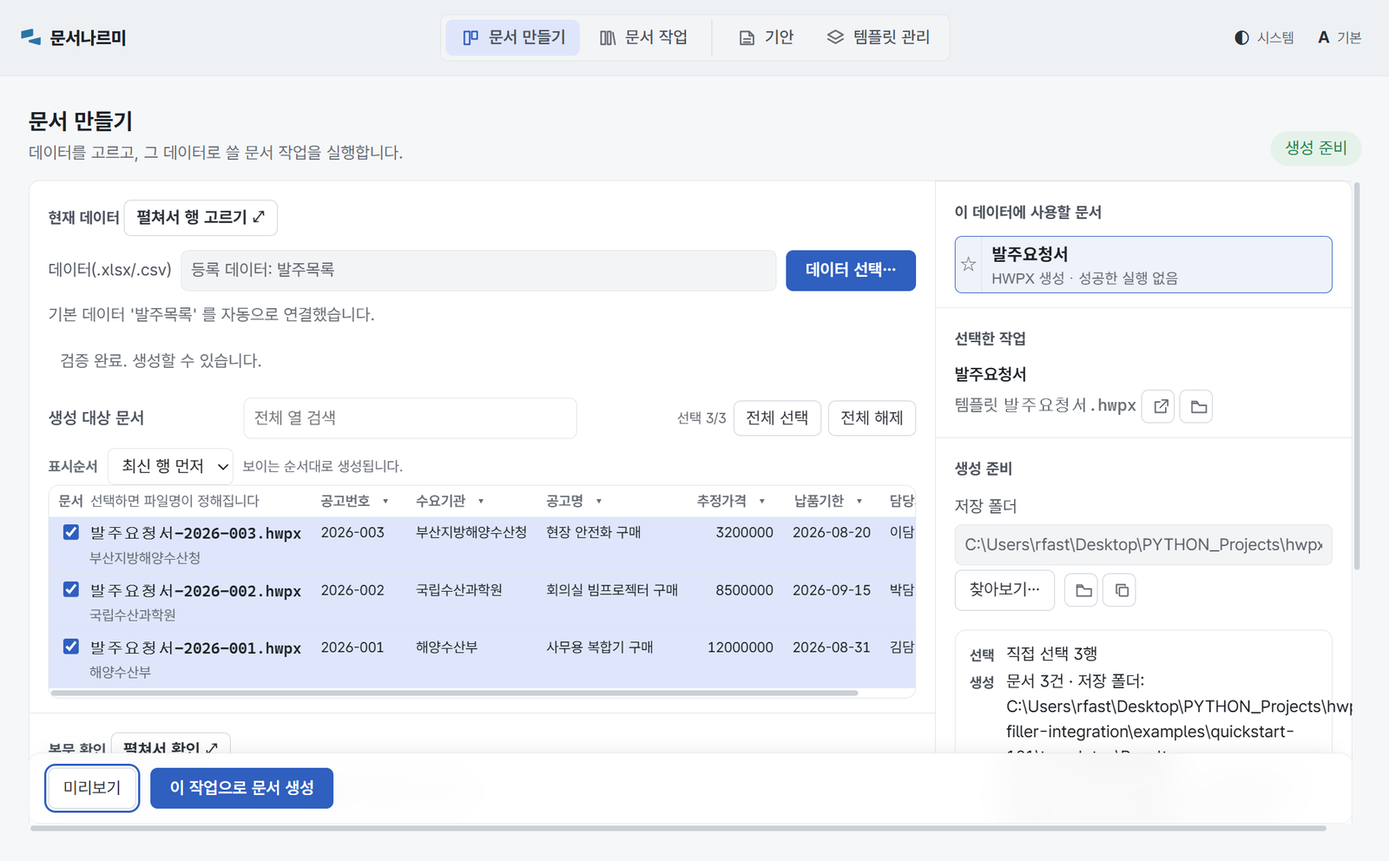
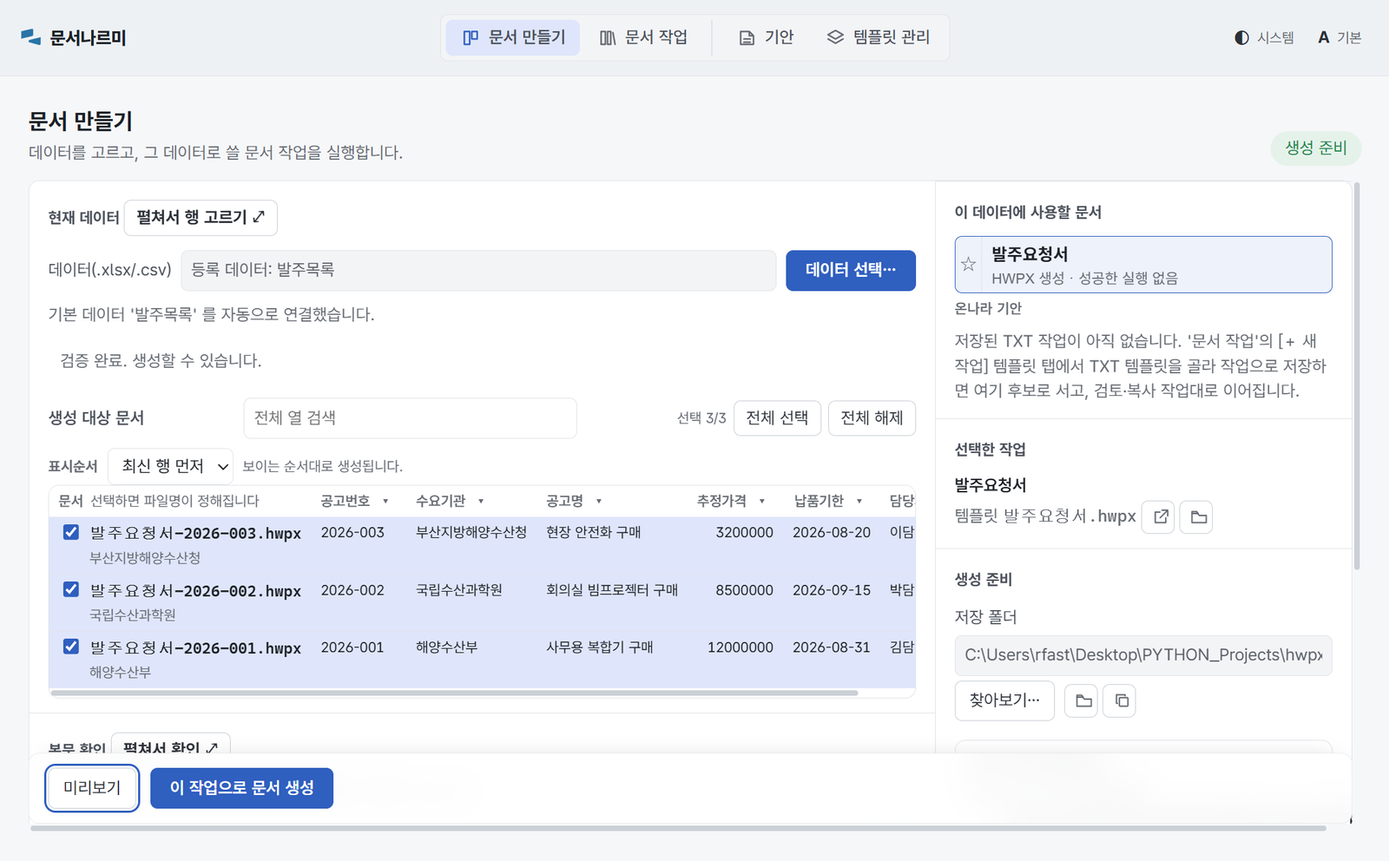
docs: F6 PR-B 101 트랙 B 재배선 — 작업대 경로 14컷 + README(고지 ③)
트랙 B = TXT 작업 저장(편집기 TXT 밴드) → 검토·복사 작업대. 하니스 S8~S11 전면
교체(12-workbench-review·13-workbench-copied·14-workbench-empty-value, 14컷 유지),
README 트랙 B·탭 표·자산 표·문제 해결 재작성 + 폐지 재진술(대체 경로 = 저장 TXT
작업 경유). 오류 연습의 교훈이 새 표면으로 옮겨졌다: 휘발 세션의 빨간 {{토큰}} 대신
저장 게이트의 '비움으로 확정' + 작업대 (빈 값) 표시(자산 본문 동반 갱신).

레일 「기안」 탭이 아직 보이는 컷은 사망 커밋 뒤 재촬영으로 갱신한다(같은 PR).

Claude-Session: https://claude.ai/code/session_01HmFACgbx34L18qfC9zJoxt

Changed region(s): [[0.6875, 0.3438, 0.9688, 0.7188], [0.6875, 0.75, 0.9688, 0.875]]

diff --git a/scripts/capture_101_screenshots.py b/scripts/capture_101_screenshots.py
@@ -429,82 +429,170 @@ def _drive(d: Driver) -> None:
     d.scroll_to("#jobResult")
     d.shot("generated")
 
-    # ---- S8 기안: 템플릿 + 데이터 채움 -------------------------------------
-    # 「기안」은 상단 탭의 구분선 오른쪽 **과도기 임시 항목**이다(F6 에서 「문서 만들기」로
-    # 합쳐지며 사라진다) — 캡처는 지금 실물을 그대로 찍는다.
-    d.js("window.Nav.go('draft'); true;")
-    d.wait("document.querySelector('#scr-draft.on') !== null", "기안 화면")
-    d.wait("document.querySelectorAll('#draftTplSel option').length >= 2", "템플릿 콤보 채움")
-    assert d.js("window.__cap.setValue('#draftTplSel', '발주요청_기안')")
+    # ---- S8 트랙 B: TXT 작업 만들기(편집기 「템플릿」 탭 TXT 밴드) ----------
+    # 휘발 「기안」 화면은 F6 PR-B 로 사라졌다 — TXT 도 같은 편집기에서 **저장 작업**으로
+    # 만들고(지도 §10.15.15 점검표 1행), 채워 복사는 검토·복사 작업대가 잇는다.
+    d.js("window.Nav.go('library'); true;")
+    d.wait("document.querySelector('#scr-library.on') !== null", "문서 작업 화면(트랙 B)")
+    d.click_sel("#libraryNewWork")
     d.wait(
-        "(document.getElementById('draftCardRender')||{textContent:''}).textContent"
-        ".includes('발주 요청')",
-        "기안 원문 렌더",
+        "document.querySelector('#scr-editor.on') !== null && !!document.querySelector("
+        "'#scr-editor button[data-act=\"use-library\"][data-path*=\"발주요청_기안\"]')",
+        "편집기 TXT 밴드",
     )
-    # 데이터 선택은 단일 출구(재작성 F1) — 버튼이 네이티브 피커를 바로 열지 않고 **데이터
-    # 선택 다이얼로그**를 연다. 「다른 데이터」의 [파일 찾아보기…]가 네이티브로 내려간다.
-    d.click_sel("#draftBtnPickData")
+    d.click_sel('#scr-editor button[data-act="use-library"][data-path*="발주요청_기안"]')
+    # TXT 세션 = 탭 2개(템플릿·필드 연결) — 파일 이름 탭이 없다(§3.2, 파일을 만들지 않는 작업).
     d.wait(
-        "!document.getElementById('dataPickerModal').classList.contains('hidden')",
-        "데이터 선택 다이얼로그",
+        "document.querySelectorAll('#editor-steps .wstep-tab').length === 2"
+        " && document.querySelector('#scr-editor').textContent.includes('공고번호')",
+        "TXT 스키마·탭 2개",
     )
+    d.click("#scr-editor", "다음 ▶")
+    d.wait("!!window.__cap.btn('#scr-editor','파일 선택…')", "TXT 필드 연결 데이터 관문")
     _DIALOG_ANSWERS.append(CSV)
-    d.click_sel("#dataPickerBrowse")
-    # 「작업」과 같은 데이터-우선 계약(§18.2) — 새 데이터는 선택 0건에서 시작하므로 채울
-    # 대상을 먼저 고른다. 그래야 카드가 첫 행 값으로 채워진다.
-    d.wait("!document.getElementById('draftSelAll').disabled", "기안 대상 행 표", timeout=25.0)
-    d.click_sel("#draftSelAll")
+    d.click("#scr-editor", "파일 선택…")
     d.wait(
-        "(document.getElementById('draftCardRender')||{textContent:''}).textContent"
-        ".includes('해양수산부')",
-        "기안 채움 미리보기",
+        "!!window.__cap.btn('#scr-editor','모두 확정')"
+        " && document.querySelector('#scr-editor').textContent.includes('해양수산부')",
+        "TXT 매핑표 미리보기",
+    )
+    d.click("#scr-editor", "모두 확정")
+    d.wait(
+        "document.querySelector('#scr-editor').textContent.includes('확정 6/6')",
+        "TXT 전 행 확정",
+    )
+    assert d.js("window.__cap.setValue('#editorName', '발주요청 기안')")
+    d.click("#scr-editor", "작업 저장")
+    # 트랙 A 가 같은 CSV 를 이미 「발주목록」으로 등록했다 — 같은 이름 재등록 확인이 선다
+    # (조용한 참조 덮어쓰기 금지). 같은 파일·같은 뜻이라 실습도 [덮어쓰기]로 지난다.
+    d.wait("!!window.__cap.btn(null,'덮어쓰기')", "등록 데이터 동명 확인")
+    d.js("window.__cap.clickBtn(null,'덮어쓰기'); true;")
+    d.wait(
+        "document.querySelector('#scr-editor').textContent.includes('저장했습니다')",
+        "TXT 작업 저장 착지",
+        timeout=30.0,
+    )
+    d.click_sel("#editorBack")
+    d.wait("document.querySelector('#scr-job.on') !== null", "편집기 이탈(트랙 B)")
+
+    # ---- S9 작업대 진입·검토 -----------------------------------------------
+    # 실행 버튼이 매체 분기(판정 D)로 「검토·복사 시작 · 3건」으로 서고 작업대가 열린다.
+    d.js("window.Nav.go('library'); true;")
+    d.wait(
+        "!!document.querySelector('#libraryList [data-work=\"발주요청 기안\"]')",
+        "TXT 작업 라이브러리 반영",
+    )
+    d.click_sel('#libraryList [data-work="발주요청 기안"]')
+    d.wait("!!document.querySelector('#libraryDetail [data-use=\"발주요청 기안\"]')", "TXT 상세")
+    d.click_sel('#libraryDetail [data-use="발주요청 기안"]')
+    d.wait(
+        "document.querySelector('#scr-job').textContent.includes('자동으로 연결')",
+        "TXT 기본 데이터 자동 연결",
         timeout=25.0,
     )
-    d.scroll_to("#draftCard")
-    d.shot("draft-filled")
-
-    # ---- S9 복사(클립보드) -------------------------------------------------
-    d.click_sel("#draftCardCopy")
+    d.click_sel("#jobSelAll")
     d.wait(
-        "(document.getElementById('draftNote')||{textContent:''}).textContent"
-        ".includes('복사')",
-        "복사 완료 노트",
+        "document.getElementById('jobGenBtn').textContent.includes('검토·복사 시작')"
+        " && !document.getElementById('jobGenBtn').disabled",
+        "검토·복사 진입 버튼",
     )
-    d.scroll_to("#draftNote")
-    d.shot("draft-copied")
-
-    # ---- S10 오류 연습: 미치환 토큰 경고 -----------------------------------
-    assert d.js("window.__cap.setValue('#draftTplSel', '오류연습_미치환')")
-    # 무장 세션 전환 가드 — in-page 확인 모달이 뜨면 실 클릭으로 지난다.
+    d.click_sel("#jobGenBtn")
+    # 카드 술어는 표시순서 무관하게 잡는다 — 고정 사본은 「최신 행 먼저」 기본 순서라 첫
+    # 카드가 CSV 1행이 아니다. 템플릿 원문([발주 요청])과 채운 값(구매)이 함께 서야 채움이다.
     d.wait(
-        "(document.getElementById('draftCardRender')||{textContent:''}).textContent"
-        ".includes('담당연락처')"
-        " || !!window.__cap.btn(null,'바꾸기')",
-        "전환 가드 or 전환 완료",
+        "document.querySelector('#scr-workbench.on') !== null"
+        " && (document.getElementById('wbCard')||{textContent:''}).textContent"
+        ".includes('[발주 요청]')"
+        " && (document.getElementById('wbCard')||{textContent:''}).textContent.includes('구매')",
+        "작업대 카드 채움",
     )
-    d.js("window.__cap.clickBtn(null,'바꾸기'); true;")
-    # 전환은 데이터를 유지한다 — 해제된 경우에만 다시 겨눈다(답변도 그때만 큐잉).
-    time.sleep(0.8)
-    if not d.js(
-        "((document.getElementById('draftDataLabel')||{value:'',textContent:''}).value||''"
-        " + (document.getElementById('draftDataLabel')||{textContent:''}).textContent)"
-        ".includes('발주목록')"
-    ):
-        d.click_sel("#draftBtnPickData")
-        d.wait(
-            "!document.getElementById('dataPickerModal').classList.contains('hidden')",
-            "데이터 선택 다이얼로그(재겨눔)",
-        )
-        _DIALOG_ANSWERS.append(CSV)
-        d.click_sel("#dataPickerBrowse")
+    d.shot("workbench-review")
+
+    # ---- S10 복사(클립보드) ------------------------------------------------
+    d.click_sel("#wbCopy")
     d.wait(
-        "(document.getElementById('draftCardRender')||{textContent:''}).textContent"
-        ".includes('{{담당연락처}}')",
-        "미치환 토큰 표시",
+        "(document.getElementById('wbCopied')||{textContent:''}).textContent"
+        ".trim().indexOf('1 /') === 0",
+        "복사 카운터",
+    )
+    d.shot("workbench-copied")
+    # 미복사 잔량이 있는 이탈은 가드가 확인을 요구한다(T3 승계) — 실 클릭으로 지난다.
+    d.click_sel("#wbBack")
+    d.wait(
+        "document.querySelector('#scr-job.on') !== null || !!window.__cap.btn(null,'나가기')",
+        "작업대 이탈 가드",
+    )
+    d.js("window.__cap.clickBtn(null,'나가기'); true;")
+    d.wait("document.querySelector('#scr-job.on') !== null", "작업대 이탈")
+
+    # ---- S11 오류 연습: 데이터에 없는 항목 = 비움 확정 → 〈빈 값〉 ----------
+    # 구 「기안」의 빨간 {{토큰}} 은 휘발 세션(미결속 허용)의 표면이었다. 저장 작업은 전 행
+    # 확정이 저장 조건이라, 없는 항목은 편집기가 **비움 확정**을 요구하고(조용히 지나가지
+    # 않는다) 작업대 카드에 〈빈 값〉으로 남는다 — 같은 경보의 새 거처를 그대로 찍는다.
+    d.js("window.Nav.go('library'); true;")
+    d.wait("document.querySelector('#scr-library.on') !== null", "문서 작업(오류 연습)")
+    d.click_sel("#libraryNewWork")
+    d.wait(
+        "document.querySelector('#scr-editor.on') !== null && !!document.querySelector("
+        "'#scr-editor button[data-act=\"use-library\"][data-path*=\"오류연습_미치환\"]')",
+        "편집기 TXT 밴드(오류 연습)",
+    )
+    d.click_sel('#scr-editor button[data-act="use-library"][data-path*="오류연습_미치환"]')
+    d.wait(
+        "document.querySelector('#scr-editor').textContent.includes('담당연락처')",
+        "오류 연습 스키마",
+    )
+    d.click("#scr-editor", "다음 ▶")
+    d.wait("!!window.__cap.btn('#scr-editor','파일 선택…')", "데이터 관문(오류 연습)")
+    _DIALOG_ANSWERS.append(CSV)
+    d.click("#scr-editor", "파일 선택…")
+    d.wait("!!window.__cap.btn('#scr-editor','모두 확정')", "매핑표(오류 연습)")
+    d.click("#scr-editor", "모두 확정")
+    # 데이터에 없는 「담당연락처」 — 채우지 않고 비움으로 확정할지 **묻는다**(이름게이트).
+    d.wait("!!window.__cap.btn(null,'비움으로 확정')", "비움 확정 이름게이트")
+    d.js("window.__cap.clickBtn(null,'비움으로 확정'); true;")
+    d.wait(
+        "document.querySelector('#scr-editor').textContent.includes('확정 3/3')",
+        "오류 연습 전 행 확정",
+    )
+    assert d.js("window.__cap.setValue('#editorName', '오류연습')")
+    d.click("#scr-editor", "작업 저장")
+    d.wait("!!window.__cap.btn(null,'덮어쓰기')", "등록 데이터 동명 확인(오류 연습)")
+    d.js("window.__cap.clickBtn(null,'덮어쓰기'); true;")
+    d.wait(
+        "document.querySelector('#scr-editor').textContent.includes('저장했습니다')",
+        "오류 연습 저장 착지",
+        timeout=30.0,
+    )
+    d.click_sel("#editorBack")
+    d.wait("document.querySelector('#scr-job.on') !== null", "편집기 이탈(오류 연습)")
+    d.js("window.Nav.go('library'); true;")
+    d.wait(
+        "!!document.querySelector('#libraryList [data-work=\"오류연습\"]')",
+        "오류 연습 작업 반영",
+    )
+    d.click_sel('#libraryList [data-work="오류연습"]')
+    d.wait("!!document.querySelector('#libraryDetail [data-use=\"오류연습\"]')", "오류 연습 상세")
+    d.click_sel('#libraryDetail [data-use="오류연습"]')
+    # 이번엔 「자동으로 연결」 고지가 없다 — 같은 데이터(발주목록)가 앞 단계에서 이미
+    # 마운트돼 있어 prefer_work 가 데이터 재연결 없이 작업만 바꾼다. 전환 사실로 기다린다.
+    d.wait(
+        "document.querySelector('#scr-job').textContent.includes('오류연습')"
+        " && !document.getElementById('jobSelAll').disabled",
+        "오류 연습 작업 전환",
         timeout=25.0,
     )
-    d.scroll_to("#draftCard")
-    d.shot("missing-token")
+    d.click_sel("#jobSelAll")
+    d.wait("!document.getElementById('jobGenBtn').disabled", "검토·복사 진입(오류 연습)")
+    d.click_sel("#jobGenBtn")
+    d.wait(
+        "document.querySelector('#scr-workbench.on') !== null"
+        " && (document.getElementById('wbCard')||{textContent:''}).textContent.includes('빈 값')"
+        " && (document.getElementById('wbMapPanel')||{textContent:''}).textContent"
+        ".includes('담당연락처')",
+        "작업대 〈빈 값〉 표면",
+    )
+    d.shot("workbench-empty-value")
 
 
 # ------------------------------------------------------------------ 부팅 배선

diff --git a/examples/quickstart-101/README.md b/examples/quickstart-101/README.md
@@ -6,7 +6,8 @@
 **실습 결과**: ① 완성 HWPX 문서 3건 ② 클립보드에 채워진 기안 텍스트 1건.
 
 한글 CSV 한 벌로 두 가지를 만든다 — **HWPX 완성 문서**(작업으로 저장 → 생성)와
-**즉시 기안 텍스트**(채워서 바로 복사). 이 폴더 하나로 처음부터 끝까지 화면에서 실습된다.
+**기안 텍스트**(작업으로 저장 → 검토·복사). 두 트랙 모두 같은 「작업」 리듬이고,
+이 폴더 하나로 처음부터 끝까지 화면에서 실습된다.
 
 > 이 튜토리얼은 **CLI 를 쓰지 않는다.** 실무자는 앱으로 일한다는 전제다.
 > 자동화용 명령줄이 필요하면 [루트 README](../../README.md) 의 CLI 절을 보라.
@@ -25,9 +26,9 @@ quickstart-101/
 ├─ templates/                누름틀 템플릿(.hwpx) — 앱의 템플릿 라이브러리에 자동으로 뜬다
 │   ├─ 발주요청서.hwpx        6필드 템플릿
 │   └─ 구매요청서.hwpx        4필드 부분집합(102 용)
-├─ text_templates/           평문 {{필드}} 초안 — "기안" 화면에 자동으로 뜬다
+├─ text_templates/           평문 {{필드}} 초안 — 편집기 「＋ 새 작업」의 TXT 구획에 뜬다
 │   ├─ 발주요청_기안.txt      정상 초안(6필드 전부 CSV 에 있음)
-│   └─ 오류연습_미치환.txt    ⚠ 일부러 없는 토큰을 넣은 오류 연습용(정상 경로와 분리)
+│   └─ 오류연습_미치환.txt    ⚠ 일부러 없는 토큰을 넣은 오류 연습용(비움 확정·빈 값 표면)
 ├─ data/                     채울 값(한글 헤더 = 필드 이름 → 직접 매칭)
 │   ├─ 발주목록.csv           3건. utf-8-sig — 트랙 A·B 가 같은 파일을 쓴다
 │   └─ 발주목록_2.csv         같은 헤더·다른 2건(102 용)
@@ -46,8 +47,8 @@ quickstart-101/
 | `발주요청서.hwpx` + `발주목록.csv` | 첫 HWPX 생성 | 필드 확인 → 자동 제안 확정 → 작업 저장 → 생성 | 완성 HWPX 3건 |
 | `구매요청서.hwpx` + 같은 CSV | 템플릿 재사용(102) | 한 데이터 → 여러 템플릿, 여분 열 무시 | 다른 서식 HWPX 3건 |
 | `발주목록_2.csv` | 데이터 교체(102) | 여러 데이터 → 한 템플릿, 같은 폴더 누적 | 추가 HWPX 2건 |
-| `발주요청_기안.txt` + 같은 CSV | 즉시 기안 | 레코드 이동·미리보기·복사 | 채워진 평문 초안 |
-| `오류연습_미치환.txt` | 경고 표면 학습 | 데이터에 없는 `{{담당연락처}}` 토큰의 미치환 경고 | 빨간 토큰·`항목 없음` 신호 |
+| `발주요청_기안.txt` + 같은 CSV | 기안 텍스트 | TXT 작업 저장 → 작업대 검토·복사 | 채워진 평문 초안 |
+| `오류연습_미치환.txt` | 경고 표면 학습 | 데이터에 없는 `{{담당연락처}}` 항목의 비움 확정·빈 값 표시 | 비움 확정 게이트·`(빈 값)` 표시 |
 
 필드 ↔ 데이터 열 대응: 템플릿 필드명 = CSV 한글 헤더 **정확 일치**가 101 의 핵심이다
 (그래서 매핑이 자동 제안된다). `발주요청서` 는 6열 전부(공고번호·수요기관·공고명·
@@ -86,15 +87,14 @@ macOS/Linux: `HWPXFILLER_HOME="$PWD/examples/quickstart-101" python -m hwpxfille
 
 | 탭 | 하는 일 |
 |---|---|
-| **문서 만들기** | 데이터를 고르고, 그 데이터로 쓸 문서 작업을 실행하는 곳(트랙 A) |
+| **문서 만들기** | 데이터를 고르고, 그 데이터로 쓸 문서 작업을 실행하는 곳(HWPX 생성·TXT 검토·복사) |
 | **문서 작업** | 저장된 작업을 찾고 상태를 확인·정리하는 곳. 「＋ 새 작업」도 여기 |
 | *구분선 오른쪽* | |
-| **기안** | 평문 초안(TXT)을 채워 복사하는 곳(트랙 B) |
 | **템플릿 관리** | HWPX·TXT 라이브러리 — 상태 점검·누름틀 변환·그룹 정리 |
 
-구분선 오른쪽 둘은 **정리 중인 자리**다 — 곧 앞의 두 탭 안으로 합쳐지며 사라진다(탭에
-마우스를 올리면 그렇게 적혀 있다). 101 은 **문서 만들기**·**문서 작업**(트랙 A)과
-**기안**(트랙 B)을 쓴다.
+구분선 오른쪽은 **정리 중인 자리**다 — 곧 앞의 두 탭 안으로 합쳐지며 사라진다(탭에
+마우스를 올리면 그렇게 적혀 있다). 101 은 두 트랙 모두 **문서 만들기**·**문서 작업**
+두 탭으로 진행한다.
 
 자주 쓰는 데이터 파일은 별도 화면이 아니라 **[데이터 선택…]** 창 안의 「고정한 데이터」에
 모인다 — 데이터는 작업의 입력이라 고르는 자리에서 함께 관리한다.
@@ -228,55 +228,67 @@ macOS/Linux: `HWPXFILLER_HOME="$PWD/examples/quickstart-101" python -m hwpxfille
 
 ---
 
-## 트랙 B — 기안 (텍스트 초안 바로 채우기)
+## 트랙 B — 기안 텍스트 (TXT 작업으로 채워 복사)
 
-완성 문서(.hwpx)가 아니라 **평문 초안**을 값으로 채워 곧바로 메일·메신저·온나라 기안창에
-붙여넣고 싶을 때다. 저장 없이 **채워서 바로 복사**한다.
+완성 문서(.hwpx)가 아니라 **평문 초안**을 값으로 채워 메일·메신저·온나라 기안창에
+붙여넣고 싶을 때다. 저장 없이 채워 복사하던 '기안' 화면은 없어졌다 — 같은 일을
+**TXT 작업을 한 번 저장한 뒤 검토·복사 작업대**에서 한다. 작업이 저장돼 있으니
+다음번엔 데이터만 겨눠 바로 검토·복사로 간다(트랙 A 와 같은 리듬).
 
-1. 위쪽 탭 **기안**(구분선 오른쪽). 오른쪽 세션 패널의 **① 데이터** 구획에서 템플릿 콤보를
-   `발주요청_기안.txt` 로 고른다. 미리보기 카드에 원문이 뜬다.
-   (내 초안을 바로 쓰려면 **[템플릿 붙여넣기…]** 로 텍스트를 부어 넣어도 된다.)
-2. 같은 구획의 **[데이터 선택…]** → 「다른 데이터」의 **[파일 찾아보기…]** →
-   `data/발주목록.csv`. **기안 대상 행** 표에 3건이 뜬다. 여기서도 채울 행은 직접
-   고른다 — **[전체 선택]** 을 누르면 카드가 첫 행 값으로 채워진다. 카드 제목은
-   **"이대로 복사됩니다"** — 보이는 그대로가 복사 결과다.
+### ① TXT 작업 만들기 — 한 번
 
-   ![기안 — 채움 미리보기](img/12-draft-filled.png)
-   *그림 12. 값 자리는 음영으로 표시된다. ② 맞추기 표에서 토큰↔열 대응을 손볼 수 있다.*
+1. **문서 작업** 탭 → **[＋ 새 작업]**. 편집기 템플릿 목록의 **TXT 기안** 구획에서
+   `발주요청_기안` 행의 **[이 템플릿으로]** 를 누른다. TXT 작업은 파일을 만들지
+   않아 자리(탭)가 *템플릿 → 필드 연결·표시* 둘뿐이다(「파일 이름」 없음).
+2. **[다음 ▶]** → **[파일 선택…]** 으로 `data/발주목록.csv` → **[모두 확정]** 으로
+   **확정 6/6** → 화면 머리의 작업 이름에 `발주요청 기안` → **[작업 저장]**.
+   (트랙 A 에서 같은 CSV 를 이미 등록했다면 "등록 데이터 '발주목록' 이 이미 있습니다"
+   확인이 선다 — 같은 파일이므로 **[덮어쓰기]** 로 지나면 된다.)
+3. **[← 원래 업무로 돌아가기]** 로 나온다.
 
-3. 하단 액션바의 **◀ / ▶** 로 행(작업점)을 넘기며 미리보기를 확인한다.
-4. **[📋 복사]** — 클립보드에 들어간다. **"복사 후 다음으로"** 를 켜 두면 복사할 때마다
-   작업점이 다음 행으로 넘어가 여러 건을 연달아 처리하기 좋다. 완료 노트가
-   **"✓ 1행 전량 채움 복사 완료."** 처럼 상태를 남긴다.
+### ② 검토·복사 — 반복
 
-   ![기안 — 복사 완료](img/13-draft-copied.png)
-   *그림 13. 복사 뒤 — 카드 제목이 「복사됨」으로 바뀌고 「✓ 1행 전량 채움 복사 완료.」 노트가 남는다.*
+1. **문서 작업** 탭에서 `발주요청 기안` → **[문서 만들기에서 사용]**. 기본 데이터가
+   자동 연결되고 3건이 뜬다 → **[전체 선택]**. 실행 버튼이 **[검토·복사 시작 · 3건]**
+   으로 서 있다 — TXT 작업은 파일을 만들지 않으니 실행이 곧 검토·복사다.
+2. 누르면 **검토·복사 작업대**가 열린다. 오른쪽 카드가 현재 항목 값으로 채워져 있고
+   (값 자리는 음영 — 보이는 그대로가 복사 결과다), 왼쪽 **필드 연결·표시** 표에서
+   토큰↔열 대응을 그 자리에서 손볼 수 있다(고친 것을 작업에 남기려면
+   **[기본 규칙으로 저장…]**).
 
-여기서도 **없는 필드는 조용히 사라지지 않는다.** 초안이 데이터에 없는 토큰을 참조하면
-그 `{{토큰}}` 이 미리보기에 **빨갛게 그대로 남고**, 상태 pill 이 **항목 없음 N** 으로
-바뀌며, 복사 직전에도 "빈칸이 있습니다" 확인이 한 번 더 선다.
+   ![작업대 — 채움 검토](img/12-workbench-review.png)
+   *그림 12. 검토·복사 작업대 — 왼쪽 필드 연결, 오른쪽 채운 카드. 상단이 작업점·복사 진행을 센다.*
 
-남기고 싶으면 **④ 완료 · 남기려면** 구획에서 — **[기안으로 저장]**(이 조합을 왼쪽
-목록에 등록해 다음에 재사용) 또는 **[템플릿으로 저장]**(붙여넣은 초안을 라이브러리로
-승격).
+3. 하단 **[이전] / [다음]** 으로 행(작업점)을 넘기며 확인하고 **[복사]** — 클립보드에
+   들어간다. **"복사 후 다음 항목으로 이동"** 을 켜 두면 복사할 때마다 다음 행으로
+   넘어가 여러 건을 연달아 처리하기 좋다. 상단 **복사 완료 1 / 3** 카운터가 진행을
+   말한다.
+
+   ![작업대 — 복사 완료](img/13-workbench-copied.png)
+   *그림 13. 복사 뒤 — 카운터가 오르고 완료 노트가 남는다. 남은 건이 있는 채로 나가면 확인을 묻는다.*
+
+여기서도 **없는 항목은 조용히 사라지지 않는다.** 초안이 데이터에 없는 토큰을 참조하면
+작업 저장 때 편집기가 **'비움으로 확정'** 을 묻고, 작업대 카드에는 그 자리가
+**(빈 값)** 으로 남는다 — 왼쪽 표에서 다른 열을 연결하거나 값을 직접 입력해 채울 수 있다.
 
 ---
 
 ## 막히면 — 문제 해결
 
-**직접 재현해 보기**: 템플릿 콤보를 `오류연습_미치환.txt` 로 바꿔 보라(진행 중 기안을
-떠난다는 확인이 뜨면 [바꾸기]). 이 초안은 일부러 데이터에 없는 `{{담당연락처}}` 토큰을
-갖고 있다 — 아래 그림처럼 **경고가 어떻게 생겼는지** 미리 봐 두면 실무에서 당황하지 않는다.
+**직접 재현해 보기**: `오류연습_미치환` 으로 TXT 작업을 하나 더 만들어 보라(트랙 B ①과
+같은 순서). 이 초안은 일부러 데이터에 없는 `{{담당연락처}}` 토큰을 갖고 있다 —
+**[모두 확정]** 때 **'비움으로 확정'** 게이트가 서고, 작업대 카드에는 아래 그림처럼 그
+자리가 **(빈 값)** 으로 남는다. 어떻게 생겼는지 미리 봐 두면 실무에서 당황하지 않는다.
 
-![오류 연습 — 미치환 토큰 경고](img/14-missing-token.png)
-*그림 14. 데이터에 없는 토큰은 빨간 `{{담당연락처}}` 로 남고 상태 pill 이 「항목 없음 1」이 된다.*
+![오류 연습 — 빈 값 표면](img/14-workbench-empty-value.png)
+*그림 14. 데이터에 없는 항목은 비움 확정을 거쳐 (빈 값)으로 남는다 — 왼쪽 표에서 채울 수 있다.*
 
 | 증상 | 원인·해법 |
 |---|---|
 | 템플릿 라이브러리가 비어 있다 | 앱을 `start-101.cmd` 로 실행했는지 확인 — 홈이 이 폴더로 잡혀야 `templates/` 가 뜬다 |
-| 매핑이 자동 제안되지 않는다 | CSV 헤더와 필드명이 정확히 같아야 한다(공백·괄호 차이도 다른 이름) — ② 매핑표에서 직접 열을 고르면 된다 |
+| 매핑이 자동 제안되지 않는다 | CSV 헤더와 필드명이 정확히 같아야 한다(공백·괄호 차이도 다른 이름) — 매핑표에서 직접 열을 고르면 된다 |
 | 생성 버튼이 잠겨 있다 | 게이트 캡션이 이유를 서수로 알려 준다(①…②…). 대개 데이터 미연결이거나 빈 값 미확인 |
-| 미리보기에 빨간 `{{토큰}}` | 데이터에 그 이름의 열이 없다 — ② 맞추기에서 다른 열을 대응시키거나 그대로 복사 후 손으로 채운다 |
+| 작업대 카드에 `(빈 값)` | 데이터에 그 이름의 열이 없다 — 왼쪽 「필드 연결·표시」에서 다른 열을 연결하거나 값을 직접 입력한다 |
 | 실습을 처음부터 다시 | `reset-101.cmd` 더블클릭(예제 자산은 남고 실습 상태만 지워진다) |
 
 ---
